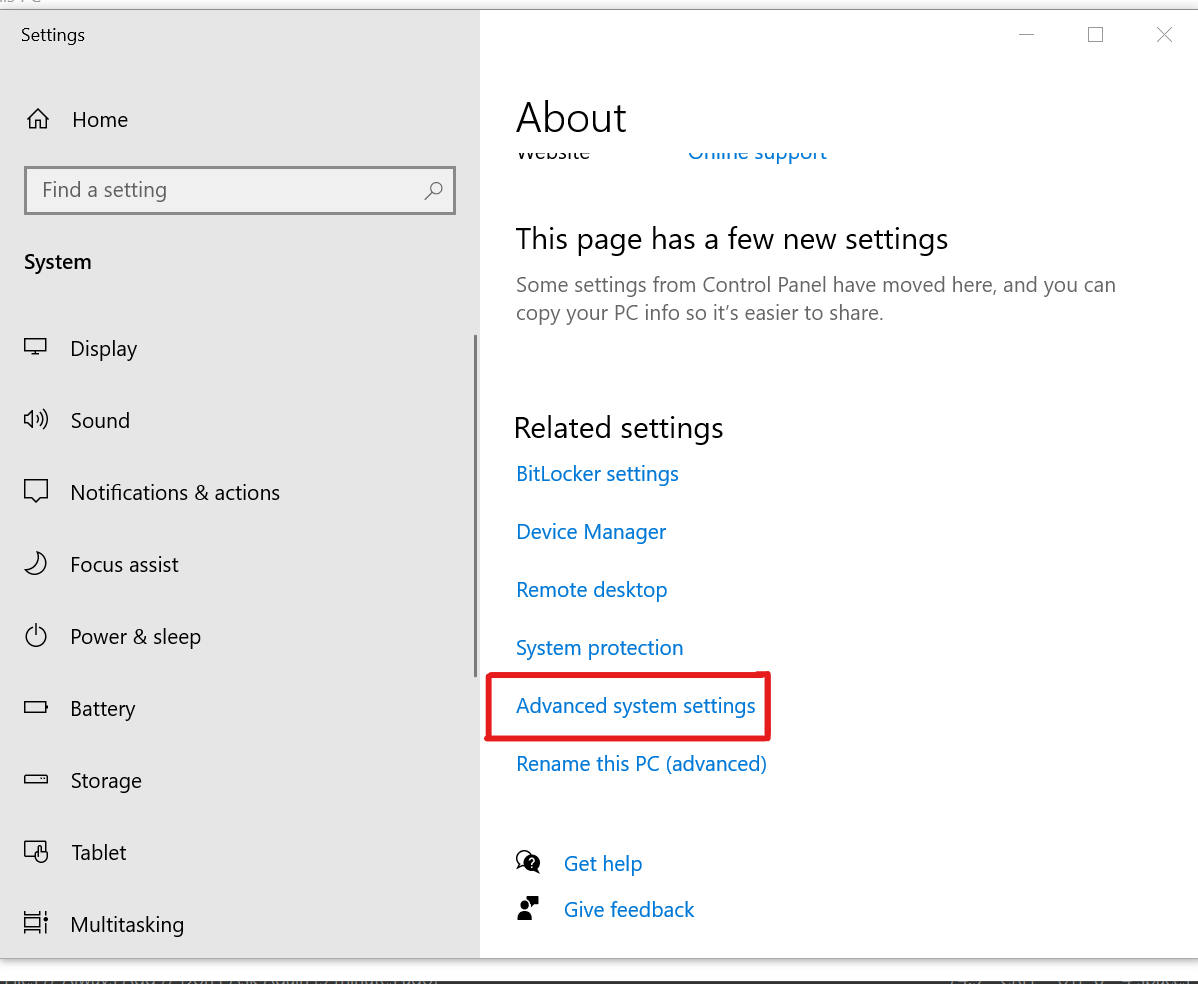
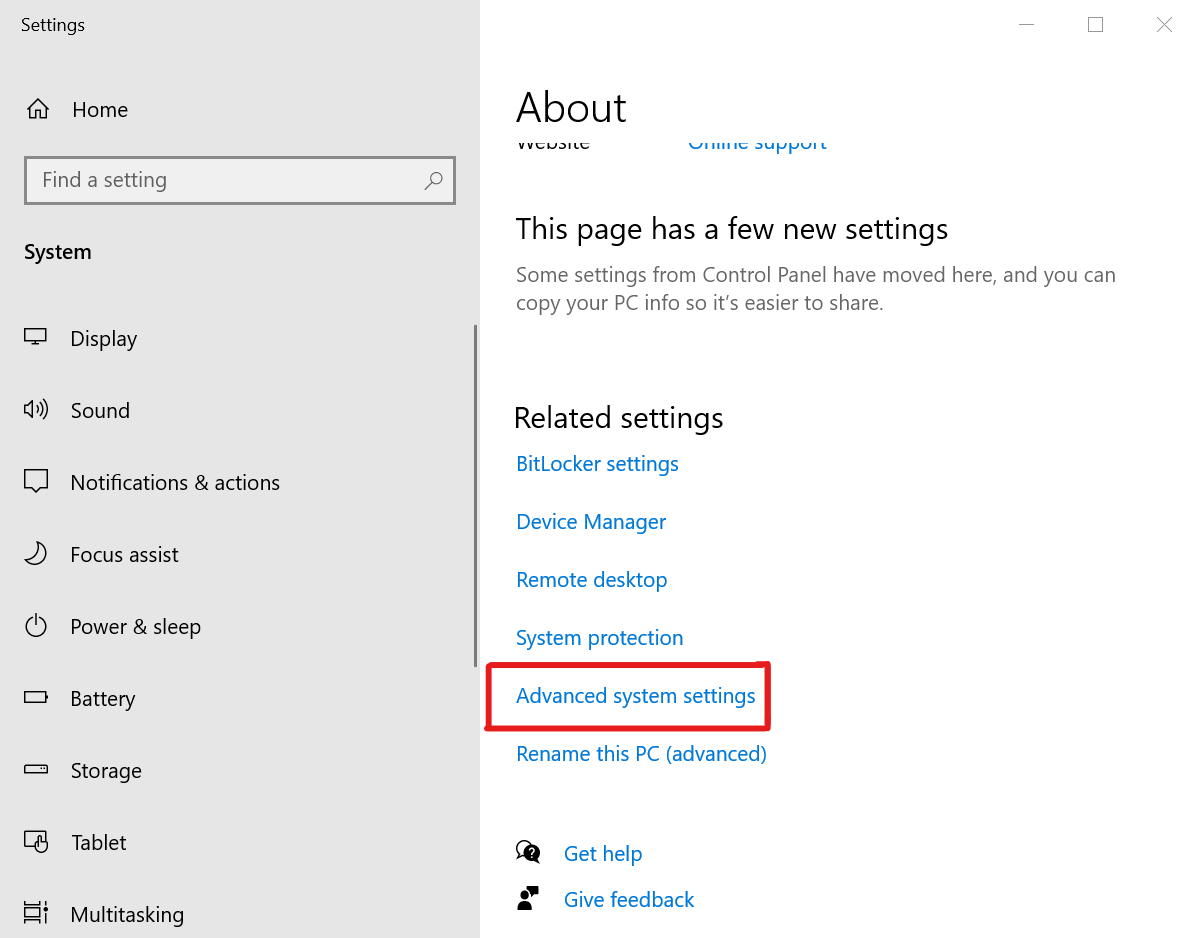
Improving BSL documentation

diff --git a/examples/resting_state_recording.py b/examples/resting_state_recording.py
@@ -29,7 +29,7 @@ resting-state recording can be designed with a `~bsl.StreamRecorder`.
 #
 # This example will use a sample EEG resting-state dataset that can be retrieve
 # with :ref:`bsl.datasets<datasets>`. The dataset is stored in the user home
-# directory, in the folder ``bsl_data``.
+# directory  (ex. C:\\Users\\User), in the folder ``bsl_data``.
 
 #%%
 
@@ -45,7 +45,7 @@ from bsl.triggers.software import TriggerSoftware
 #%%
 #
 # To simulate an actual signal coming from an LSL stream, a `~bsl.StreamPlayer`
-# is used with a 40 second resting-state recording.
+# is used with a 40 seconds resting-state recording.
 
 stream_name = 'StreamPlayer'
 fif_file = datasets.eeg_resting_state.data_path()
@@ -56,7 +56,7 @@ print (player)
 #%%
 #
 # For this example, the folder ``bsl_data/examples`` located in the user home
-# directory will be used to stored recorded files. To ensure its existence,
+# directory (ex. C:\\Users\\User\\bsl_data\\examples) will be used to stored recorded files. To ensure its existence,
 # `os.makedirs` is used.
 
 record_dir = Path('~/bsl_data/examples').expanduser()
@@ -84,7 +84,7 @@ os.makedirs(record_dir, exist_ok=True)
 #
 # .. note::
 #
-#     By defaul, the `~bsl.StreamRecorder.start` method is blocking and will
+#     By default, the `~bsl.StreamRecorder.start` method is blocking and will
 #     wait for the recording to start. This behavior can be changed with the
 #     ``blocking`` argument.
 
@@ -170,17 +170,23 @@ with StreamRecorder(record_dir):
 #%%
 #
 # As for the `~bsl.StreamPlayer`, the `~bsl.StreamRecorder` can be started via
-# command-line. Example assuming the current working directory is ``bsl_data``:
+# command-line when a LSL stream is streamed. Example assuming the current working directory is ``bsl_data``:
 #
 # .. code-block:: console
 #
-#     $ bsl_stream_recorder examples
+#     $ bsl_stream_recorder -d record_dir -f fname -s stream_name
 #
 # .. image:: ../_static/stream_recorder/stream_recorder_cli.gif
 #    :alt: StreamRecorder
 #    :align: center
-
-#%%
+#
+# | The LSL stream can be simulated running the `~bsl.StreamPlayer` in a different terminal. In this case, run before the `~bsl.StreamPlayer` and then the `~bsl.StreamRecorder`.
+#   Example assuming the current working directory is ``bsl_data``:
+#
+#  .. code-block:: console
+#
+#     $ cd eeg_sample
+#     $ bsl_stream_player stream_name resting_state-raw.fif
 #
 # Stop the mock LSL stream.
 

diff --git a/examples/real-time_regulation_of_alpha_waves.py b/examples/real-time_regulation_of_alpha_waves.py
@@ -44,7 +44,7 @@ from bsl.triggers.software import TriggerSoftware
 #%%
 #
 # To simulate an actual signal coming from an LSL stream, a `~bsl.StreamPlayer`
-# is used with a 40 second resting-state recording.
+# is used with a 40 seconds resting-state recording.
 
 stream_name = 'StreamPlayer'
 fif_file = datasets.eeg_resting_state.data_path()

diff --git a/doc/install.rst b/doc/install.rst
@@ -48,18 +48,23 @@ Additional functionalities requires:
 Installation Example
 =====================
 
-Python version `3.8.10`
+| Python version `3.8.10`
+| Windows 10 Operating System
 
-First of all, make sure that the path to the desired version of Python is present in the `Path` Environment Variable:
+**Step 1:** Make sure that the path to the desired version of Python is present in the `Path` Environment Variable of the PC:
 
 - Right click on `This PC` App and select `Properties`
 - Scroll down the `About` section and select `Advanced system settings`
-    .. image:: doc\_static\install\Advanced_system_settings.png
-       :width: 300
-- Click on `Environmental Variables` and verify that the the Python path (ex. C:\Users\User\Programs\Python\Python38\Scripts) is in the Environmental system variable `Path`.
-    .. image:: doc\_static\install\Environmental_variables.png
-       :width: 300
-From the Terminal go to the working directory and clone the `main repository <https://github.com/bsl-tools/bsl>`_:
+.. image:: _static/install/Advanced_system_settings.png
+   :align: center
+   :width: 400
+
+- Click on `Environmental Variables` and verify that the the Python path (ex. C:\\Users\\User\\Programs\\Python\\Python38\\Scripts) is in the Environmental system variable `Path`
+.. image:: _static/install/Environmental_variables.png
+   :align: center
+   :width: 300
+|
+**Step 2:** From the Terminal go to the working directory and clone the `main repository <https://github.com/bsl-tools/bsl>`_:
 
     .. code-block:: console
 
@@ -77,16 +82,17 @@ Install bsl with ``setup.py`` in developer mode:
     
        $ python setup.py develop
 
-Check that everything works:
+**Step 3:** Check that everything works:
 
-- Download a dataset:
+- Download a dataset with Python Console:
 
     .. code-block:: console
     
        $ import bsl
        $ bsl.datasets.eeg_resting_state.data_path()
 
-- Run bsl stream player:
+- Run the `~bsl.StreamPlayer` from the terminal using the `resting_state-raw.fif` file located in the user home
+  directory's subfolder `bsl_data\eeg_sample` (ex. C:\\Users\\User\\bsl_data\\eeg_sample) :
     
     .. code-block:: console
     
@@ -95,16 +101,17 @@ Check that everything works:
        $ cd eeg_sample
        $ bsl_stream_player testStream resting_state-raw.fif
 
-- Run bsl stream viewer in a different terminal:
+- Run the `~bsl.StreamViewer` from a different terminal:
 
     .. code-block:: console
     
-       $ bsl_stream _viewer
+       $ bsl_stream_viewer
 
 
-The stream viewer should be visualize:
+The stream viewer should be visualized:
 
-.. image:: doc\_static\install\bsl_stream_viewer.png
+.. image:: _static/install/bsl_stream_viewer.png
+   :align: center
    :width: 600
    
     
